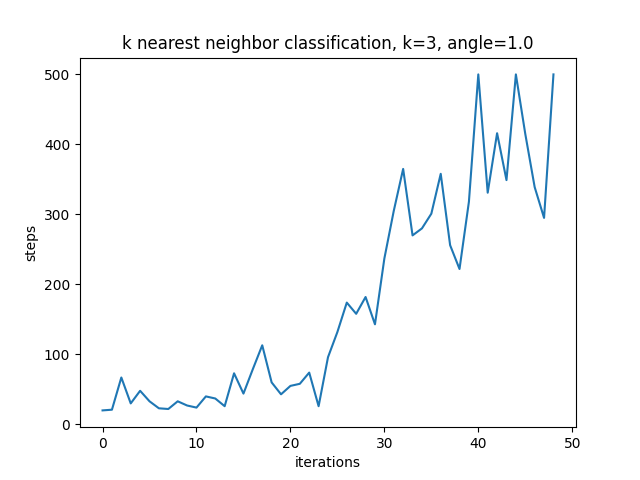
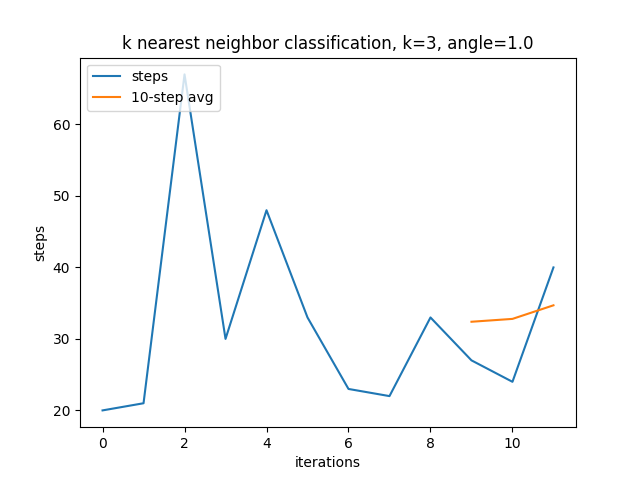
rolling avg created

diff --git a/cartPole/cartPoleKNearest.py b/cartPole/cartPoleKNearest.py
@@ -1,11 +1,14 @@
 import gymnasium as gym
 import pygame
 import numpy as np
-import helper.KNearestNeighbor as kNearest
 import matplotlib.pyplot as plt
+import pandas as pd
+
+import helper.plotHelper as plotHelper
+import helper.KNearestNeighbor as kNearest
 
 CUTOFF = True
-CUTOFFPOINT = 200
+CUTOFFPOINT = 12
 
 
 # ANGLE = 0.2095
@@ -31,7 +34,7 @@ def run_k_nearest(k=-1, show_results=True, save_results=True):
     last_it_succeeded = False
     its_before_finished = 0
 
-    training_survival_stats = []
+    data = np.array([], dtype=int)
 
     while its_before_finished < CUTOFFPOINT:
         last_closest_distance = kNearest.k_nearest_distance(terminated_observations_normalized, observation, mean, std)
@@ -67,16 +70,21 @@ def run_k_nearest(k=-1, show_results=True, save_results=True):
                     last_it_succeeded = True
 
             print(f"{its_before_finished}: Steps alive: {steps_alive}")
-            training_survival_stats.append(steps_alive)
+            data = np.append(data, [steps_alive])
             steps_alive = 0
             last_closest_distance_change = None
             observation, info = env.reset()
             its_before_finished += 1
 
     print(f"\n\nFinished. Iterations before two successful iterations in a row:\n{its_before_finished}")
-    plt.plot(training_survival_stats)
+    rolling_avg = plotHelper.rolling_average(data, 10)
+
+    plt.plot(data, label="Steps")
+    plt.plot(rolling_avg, label="10-step avg")
+
     plt.xlabel("iterations")
     plt.ylabel("steps")
+    plt.legend(loc="upper left")
     plt.title(f"k nearest neighbor classification, k={kNearest.K}, angle={ANGLE}")
 
     plot_name = f"plots\\kNearest\\K_{kNearest.K}--angle_{ANGLE}--plot.png"
@@ -84,7 +92,7 @@ def run_k_nearest(k=-1, show_results=True, save_results=True):
         plt.savefig(plot_name)
     if show_results:
         plt.show()
-    return training_survival_stats
+    return data
 
 
 def run_and_compare_range_k_nearest(bottom, top, step=1):

diff --git a/helper/plotHelper.py b/helper/plotHelper.py
@@ -1,0 +1,9 @@
+import numpy as np
+
+
+# https://stackoverflow.com/questions/11352047/finding-moving-average-from-data-points-in-python
+def rolling_average(data, window_width):
+    cumsum_vec = np.cumsum(np.insert(data, 0, 0))
+    rolling_average = (cumsum_vec[window_width:] - cumsum_vec[:-window_width]) / window_width
+    shifted_rolling_avg = np.append([None for i in range(window_width-1)], rolling_average)
+    return shifted_rolling_avg
